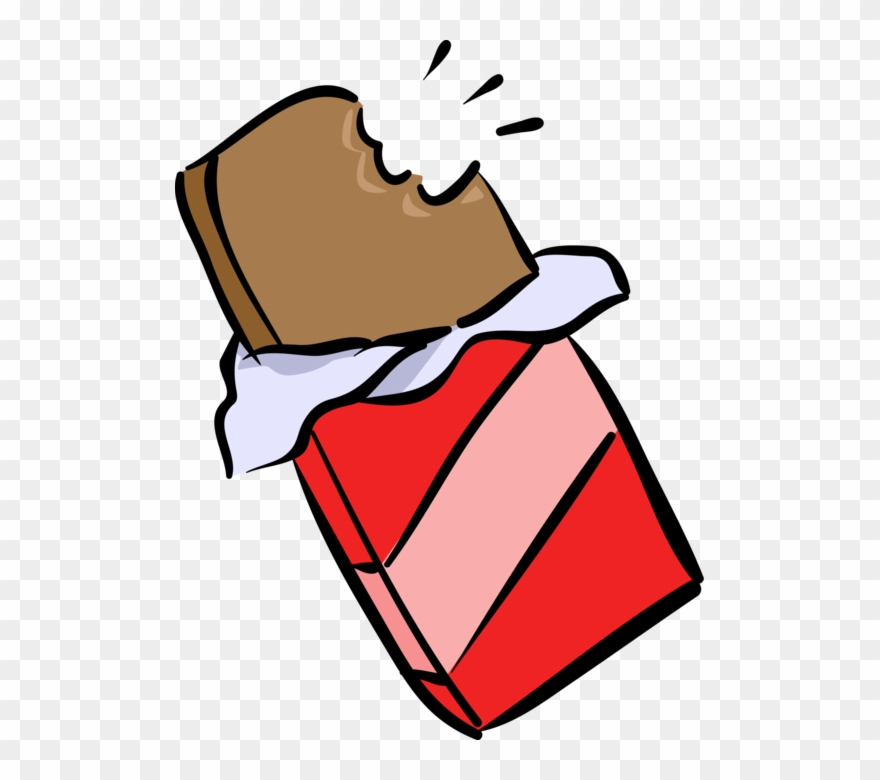
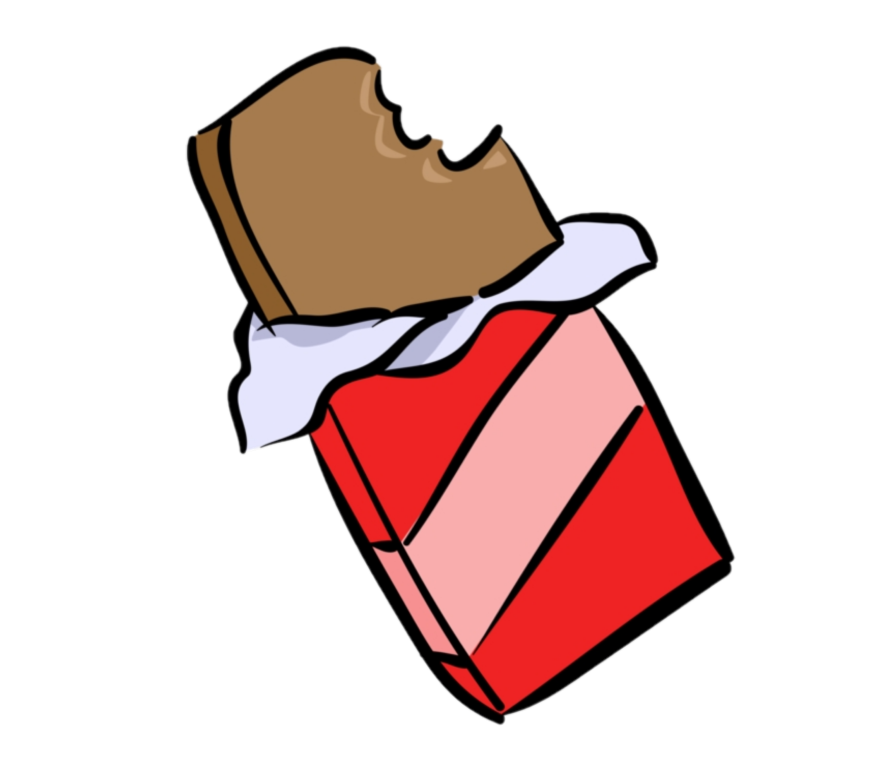
update: updated images, removed button element since images now have transparent backgrounds, rearranged order of images in array

diff --git a/assets/javascript/game.js b/assets/javascript/game.js
@@ -2,11 +2,11 @@
 
 var ranValArray = [];
 var imgArray = [
-  "assets/images/whiskey.png",
-  "assets/images/beer.jpg",
-  "assets/images/cigarette.jpg",
   "assets/images/pizza.png",
+  "assets/images/beer.png",
   "assets/images/chocolate_bar.png",
+  "assets/images/tequila.png",
+  "assets/images/cigarette.png",
 ];
 var goal = Math.floor(Math.random() * 101 + 19);
 var score = 0;
@@ -30,12 +30,11 @@ function generateRandomValues() {
 
 function buildButtons() {
   for (i = 0; i < imgArray.length; i++) {
-    var item = $("<img>").attr("src", imgArray[i]);
-    var button = $("<button>")
+    var item = $("<img>")
+      .attr("src", imgArray[i])
       .attr("class", "itemButton")
-      .attr("itemValue", ranValArray[i])
-      .append(item);
-    $("#itemButtonsDiv").append(button);
+      .attr("itemValue", ranValArray[i]);
+    $("#itemButtonsDiv").append(item);
   }
 }
 
